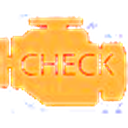
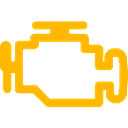
Deck: wider cards, pictograms in two rows (service) or mixed (shop), new dashboard pictograms, flat drawings for the shop
Claude-Session: https://claude.ai/code/session_01KRsFd3oRgPB21GrDGpUJJD

diff --git a/lib/widgets/sheet_parts.dart b/lib/widgets/sheet_parts.dart
@@ -659,9 +659,9 @@ class _VehicleDeckState extends State<VehicleDeck> {
   bool _open = false;
 
   static const _kinds = [Vehicle.bike, Vehicle.scooter, Vehicle.moped, Vehicle.moto];
-  // the lights of a dashboard (check engine, oil, ABS, traction control, water temperature) / what a shop also sells
-  static const _service = ['engine', 'oil', 'abs', 'tc', 'temp'];
-  static const _shop = ['helmet', 'gloves', 'frame', 'oil'];
+  // the lights of a dashboard (ABS, check engine, oil, water temperature, brakes, key) / what a shop also sells
+  static const _service = ['abs', 'engine', 'oil', 'temp', 'brake', 'key'];
+  static const _shop = ['helmet', 'oilbottle', 'gloves', 'frame'];
 
   static String _name(Vehicle v) => switch (v) {
         Vehicle.bike || Vehicle.ebike => 'Bikes',
@@ -670,18 +670,34 @@ class _VehicleDeckState extends State<VehicleDeck> {
         Vehicle.moto => 'Motos',
       };
 
-  Widget _pictos(double size, double gap) {
-    final l = widget.place.type == PlaceType.service ? _service : _shop;
-    return Center(
-      child: Wrap(
-        alignment: WrapAlignment.center,
-        crossAxisAlignment: WrapCrossAlignment.center,
-        spacing: gap,
-        runSpacing: gap,
-        children: [for (final x in l) Image.asset('assets/glyphs/dash/$x.png', width: size, height: size, fit: BoxFit.contain)],
-      ),
-    );
-  }
+  /// The little pictograms in the free space. Service: two rows, one over the other. Shop: mixed together,
+  /// a little turned and overlapping, like things thrown on a counter.
+  Widget _pictos() => LayoutBuilder(builder: (_, c) {
+        final w = c.maxWidth, h = 64.0;
+        Widget img(String x, double size) => Image.asset('assets/glyphs/dash/$x.png', width: size, height: size, fit: BoxFit.contain);
+        if (widget.place.type == PlaceType.service) {
+          final per = (_service.length + 1) ~/ 2;
+          final size = [26.0, (w - 8 - 4.0 * (per - 1)) / per, (h - 4) / 2].reduce((a, b) => a < b ? a : b);
+          Widget row(List<String> l) => Row(mainAxisSize: MainAxisSize.min, children: [
+                for (var i = 0; i < l.length; i++) ...[if (i > 0) const SizedBox(width: 4), img(l[i], size)],
+              ]);
+          return Center(child: Column(mainAxisSize: MainAxisSize.min, children: [
+            row(_service.sublist(0, per)),
+            const SizedBox(height: 4),
+            row(_service.sublist(per)),
+          ]));
+        }
+        final size = [h * 0.7, w * 0.44].reduce((a, b) => a < b ? a : b);
+        const turn = [-0.16, 0.12, -0.08, 0.18];
+        return Stack(children: [
+          for (var i = 0; i < _shop.length; i++)
+            Positioned(
+              left: 4 + (w - size - 8) * i / (_shop.length - 1),
+              top: i.isEven ? 1 : h - size - 1,
+              child: Transform.rotate(angle: turn[i], child: img(_shop[i], size)),
+            ),
+        ]);
+      });
 
   Widget _tile(Vehicle v) => Expanded(
         child: Container(
@@ -705,7 +721,7 @@ class _VehicleDeckState extends State<VehicleDeck> {
 
   /// the closed hand: four cards, each one leaving its left part (the wheel) in view
   Widget _closed() {
-    const cardW = 74.0, step = 26.0;
+    const cardW = 80.0, step = 36.0;
     return Row(key: const ValueKey('closed'), children: [
       SizedBox(
         width: step * 3 + cardW + 6,
@@ -718,7 +734,7 @@ class _VehicleDeckState extends State<VehicleDeck> {
               child: Container(
                 width: cardW,
                 height: 64,
-                padding: const EdgeInsets.fromLTRB(4, 8, 4, 8),
+                padding: const EdgeInsets.fromLTRB(3, 6, 3, 6),
                 decoration: BoxDecoration(
                   color: i == _kinds.length - 1 ? Colors.white : AppColors.paper,
                   borderRadius: BorderRadius.circular(14),
@@ -730,14 +746,14 @@ class _VehicleDeckState extends State<VehicleDeck> {
             ),
         ]),
       ),
-      Expanded(child: _paper(_pictos(24, 7))),
+      Expanded(child: _paper(_pictos())),
     ]);
   }
 
   /// the open hand: the vehicles the place handles, and the pictograms gathered in what is left
   Widget _opened(List<Vehicle> v) => Row(key: const ValueKey('open'), children: [
         for (final x in v) _tile(x),
-        Expanded(flex: 4 - v.length, child: _paper(_pictos(v.length == 3 ? 17 : 20, 5))),
+        Expanded(flex: 4 - v.length, child: _paper(_pictos())),
       ]);
 
   @override
